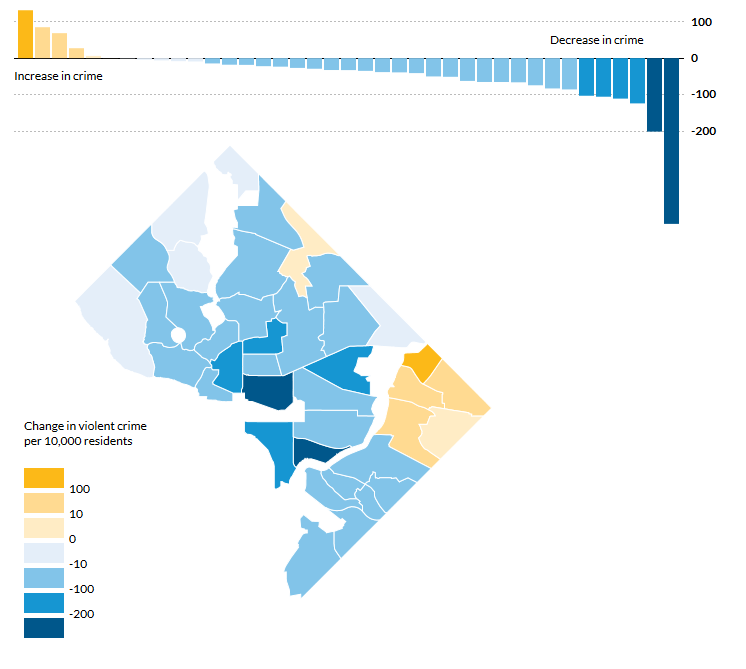
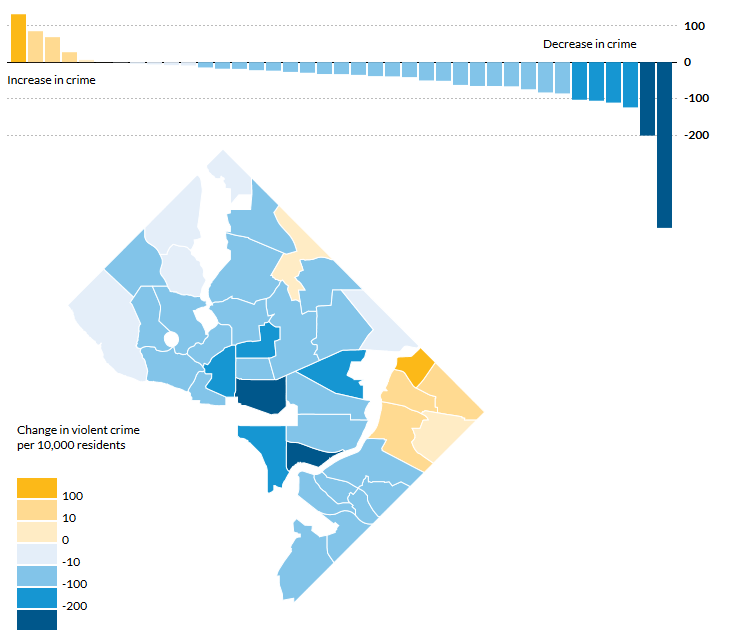
legend spacing

diff --git a/js/neighborhoods.js b/js/neighborhoods.js
@@ -12,7 +12,7 @@ var clustermap_aspect_height = 1;
 
 var $legend = $('#legend');
 var legend_aspect_width = 1;
-var legend_aspect_height = 1.9;
+var legend_aspect_height = 1.8;
 
 var colors = ["#00578b", "#1696d2", "#82c4e9", "#e4eef9", "#ffecc5", "#ffda91", "#fcb918"],
     breaks = [-200, -100, -10, 0, 10, 100],
@@ -50,7 +50,7 @@ function legenddraw() {
 
     var lp_h = 20,
         ls_w = 40,
-        ls_h = 25;
+        ls_h = 22;
 
 
     var legend = svg.selectAll("g.legend")
